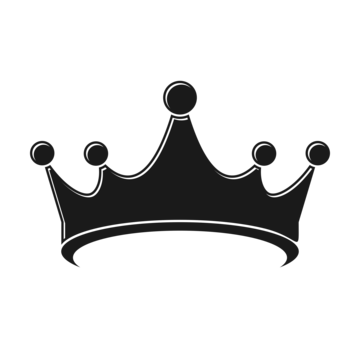
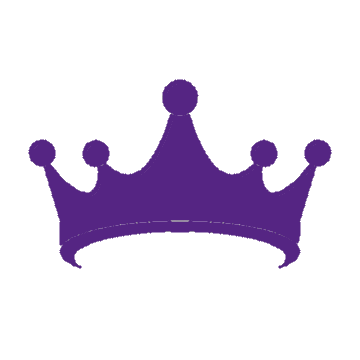
updates to login and signup

Changed region(s): [[0.0611, 0.2139, 0.9167, 0.7639]]

diff --git a/src/style/login.css b/src/style/login.css
@@ -20,7 +20,7 @@
 
 .crown-image {
   align-items:center;
-  width: 100px;  
+  width: 125px;  
   height: auto;
   margin: -1rem 0rem -1rem 0rem;
 }
@@ -63,16 +63,17 @@
   background-color: #ffffff;
 }
 
+
 .error-message {
   color: red;
   font-size: 0.875rem;
   text-align: left;
 }
 
-.btn {
+.btn2 {
   width: 100%;
   padding: 12px;
-  background: #222;
+  background: #552583;
   color: white;
   font-size: 1rem;
   border: none;
@@ -81,8 +82,8 @@
   margin-top: 10px;
 }
 
-.btn:hover {
-  background-color: #0056b3;
+.btn2:hover {
+  background-color: #FDB927;
 }
 
 .login-links {
@@ -90,14 +91,14 @@
   text-align: center;
 }
 
-.link {
+.link2 {
   display: block;
-  color: #222;
+  color: #552583;
   text-decoration: none;
   margin-top: 0.5rem;
   transition: color 0.3s;
 }
 
-.link:hover {
-  color: #0056b3;
+.link2:hover {
+  color: #FDB927;
 }

diff --git a/src/pages/login.js b/src/pages/login.js
@@ -101,14 +101,14 @@ export default function Login({ setAccessToken }) {
         )}
 
         <div className="login-links">
-          <Link to="/forgot-password" className="link">
+          <Link to="/forgot-password" className="link2">
             Forgot password?
           </Link>
-          <Link to="/signup" className="link">
+          <Link to="/signup" className="link2">
             Don’t have an account? Sign up
           </Link>
         </div>
-        <button type="submit" className="btn">
+        <button type="submit" className="btn2">
           Login
         </button>
       </form>

diff --git a/src/style/signup.css b/src/style/signup.css
@@ -84,7 +84,7 @@
   width: 100%;
   padding: 0.75rem;
   margin-top: 1rem;
-  background-color: black;
+  background-color: #552583;
   color: white;
   border: none;
   border-radius: 5px;
@@ -94,7 +94,7 @@
 }
 
 .btn:hover {
-  background-color: #0056b3;
+  background-color: #FDB927;
 }
 
 .login-links {
@@ -104,12 +104,12 @@
 
 .link {
   display: block;
-  color: black;
+  color: #552583;
   text-decoration: none;
   margin-top: 0.5rem;
   transition: color 0.3s;
 }
 
 .link:hover {
-  color: #0056b3;
+  color: #FDB927;
 }
